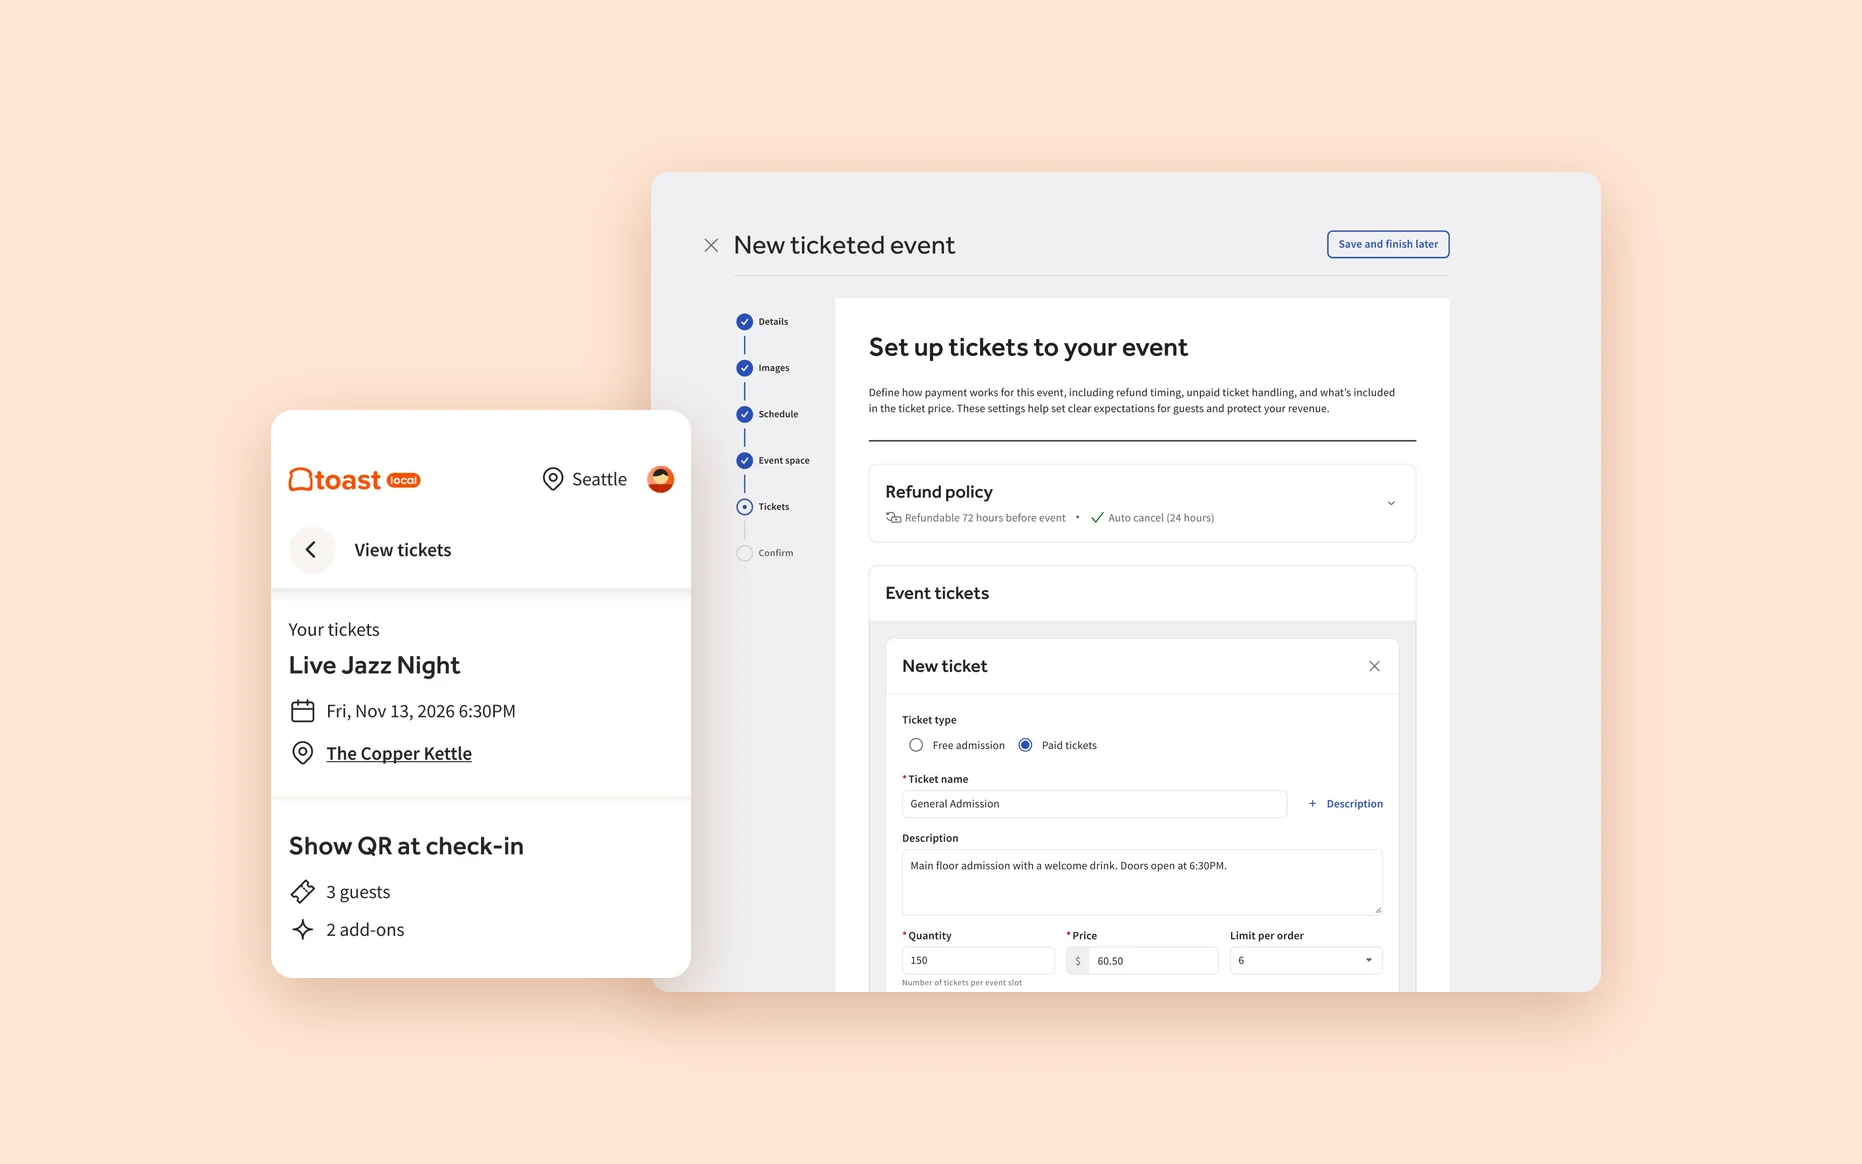
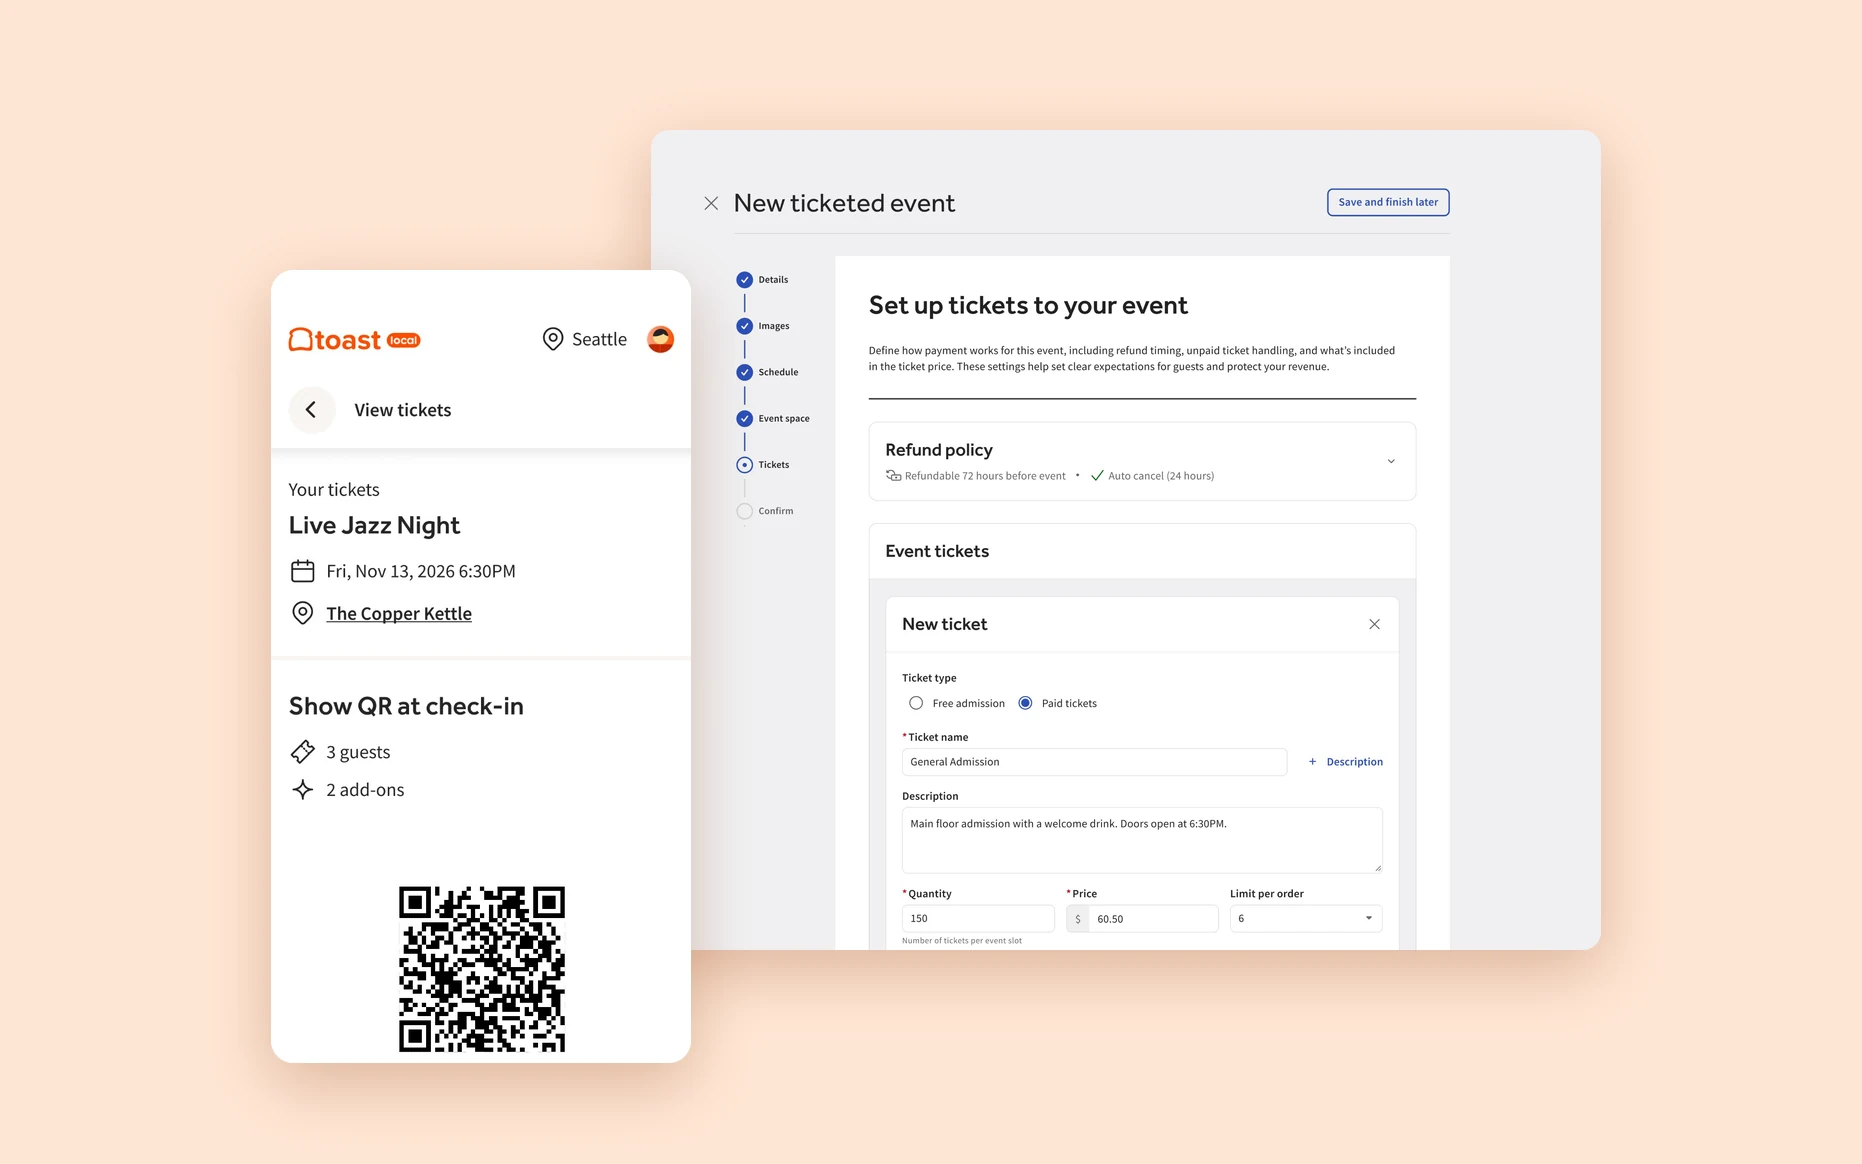
Restore full guest screen with a non-scannable QR
The QR on the cover is a scrambled stand-in: it looks the same but
doesn't decode.

Claude-Session: https://claude.ai/code/session_01L6Cc1x5TrNVTPiYhATRg52

diff --git a/index.html b/index.html
@@ -585,7 +585,7 @@
         data-line="Helping restaurants sell tickets to their events"
         data-stats='[{"v":100,"pre":"$","suf":"K+","label":"ticket sales"},{"text":"End-to-end","label":"checkout to event setup"}]'>
         <button type="button" class="shot-btn">
-          <img class="media" src="images/event-ticketing.webp" width="1862" height="1164" alt="Event Ticketing on Toast: a guest's tickets to Live Jazz Night, and the restaurant setting up tickets for a new event" loading="lazy" decoding="async">
+          <img class="media" src="images/event-ticketing.webp" width="1862" height="1164" alt="Event Ticketing on Toast: a guest's tickets to Live Jazz Night with a check-in QR code, and the restaurant setting up tickets for a new event" loading="lazy" decoding="async">
           <span class="pill"><b>Event Ticketing</b> <span>· Toast</span></span>
         </button>
       </figure>
